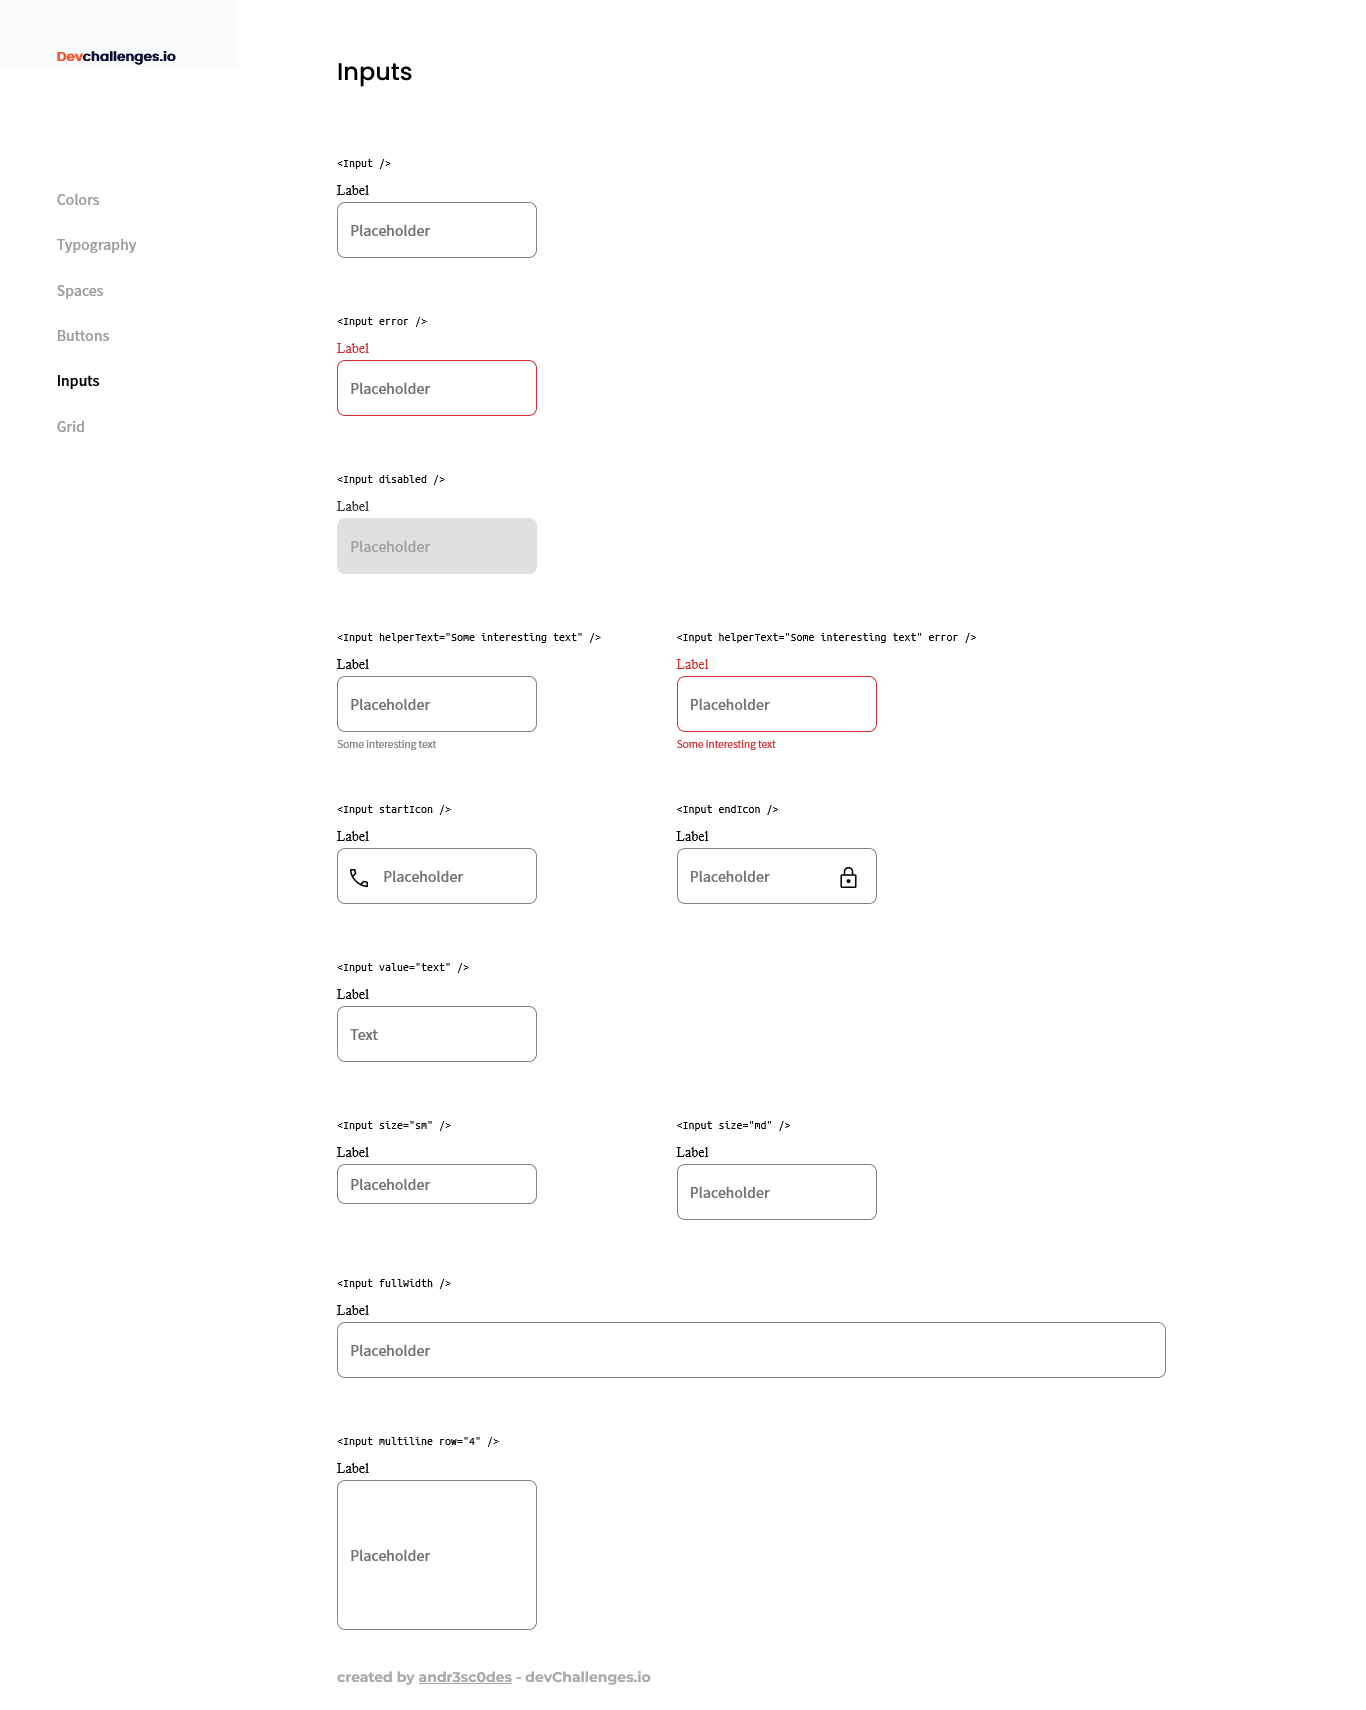
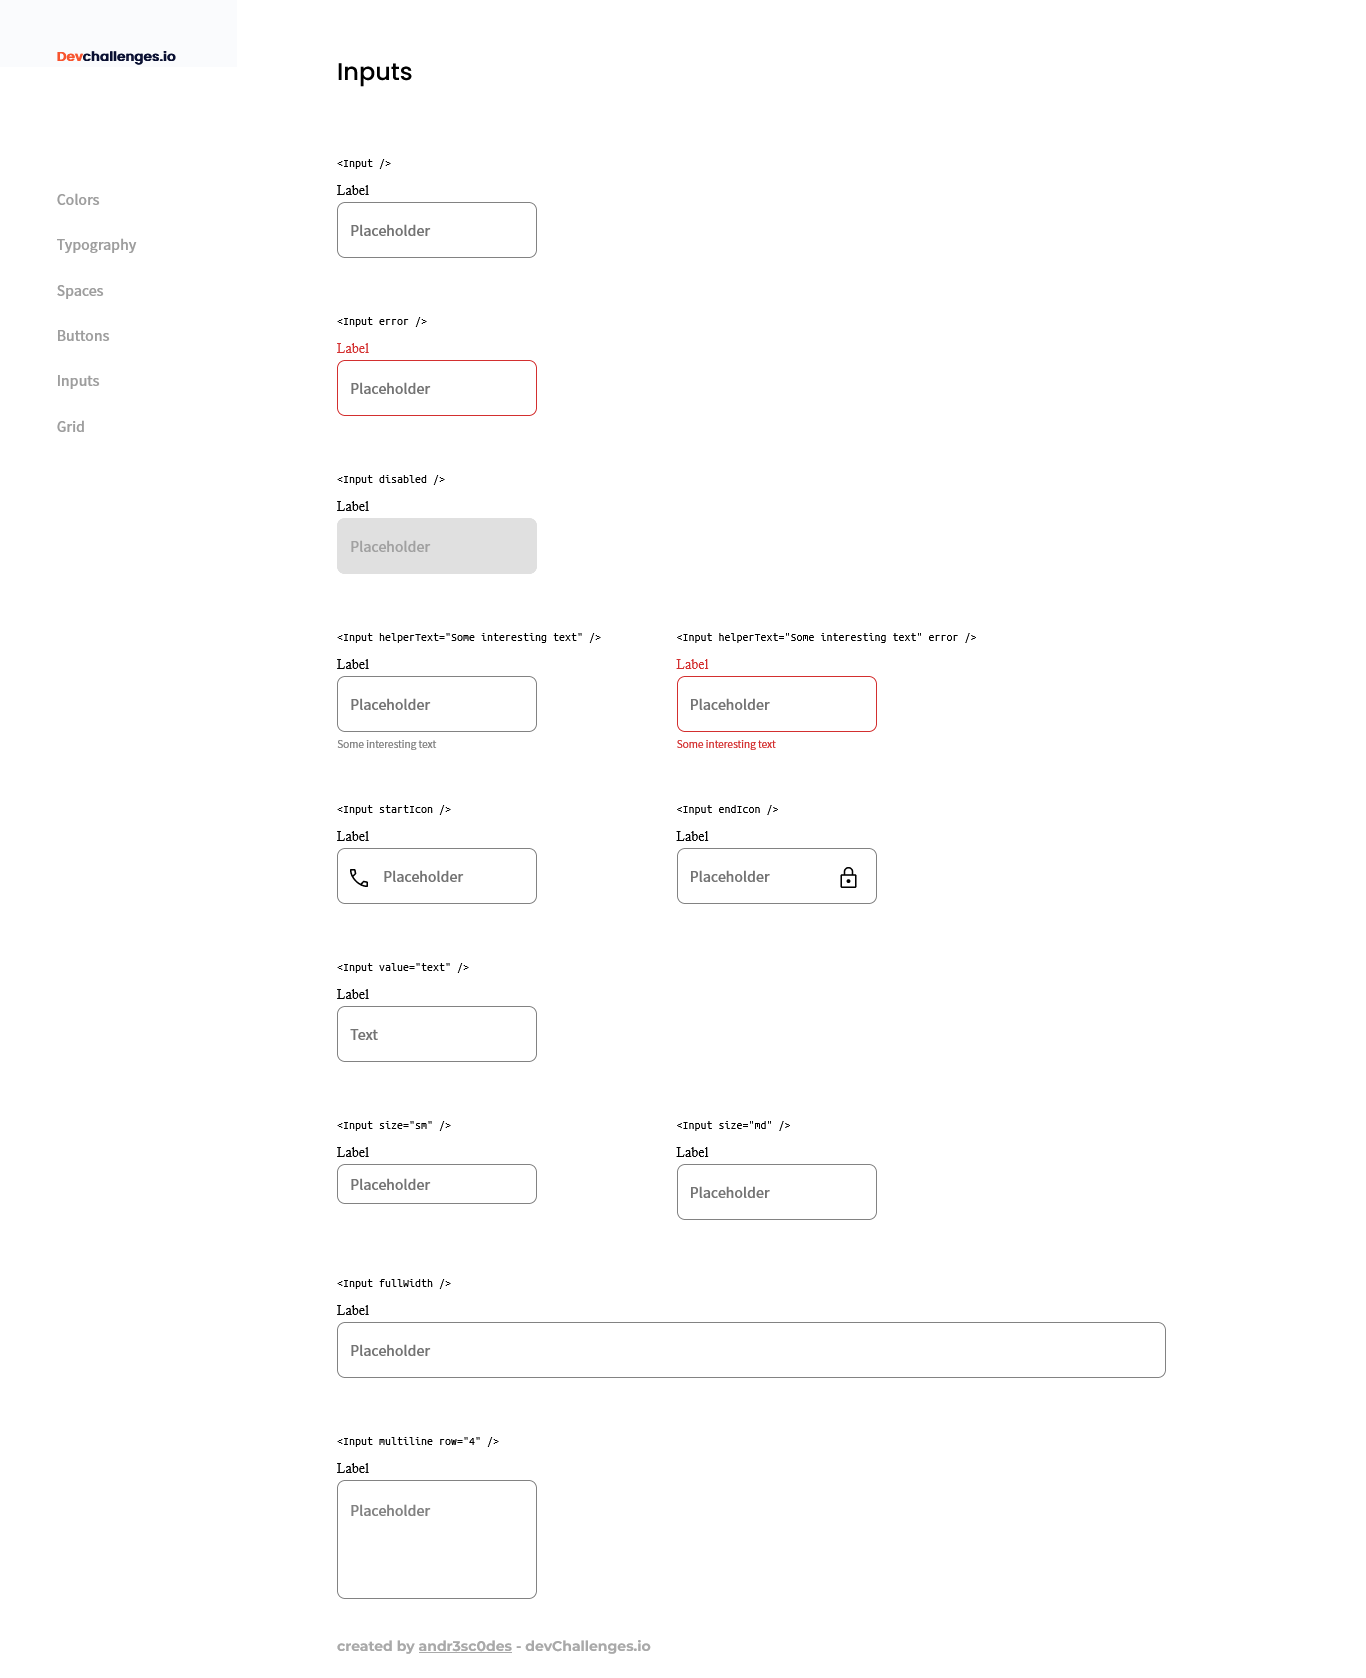
input as textarea fix

diff --git a/components/Input.jsx b/components/Input.jsx
@@ -30,16 +30,12 @@ const Input = ({ error, disabled, helperText, startIcon, endIcon, value, size, r
     if (fullWidth === true) {
       input.current.style.width = '100%'
     }
-    if (multiline === true) {
-      input.current.style.width = '200px'
-      input.current.style.height = `${row * 75}px`
-    }
   }, [])
 
   return (
     <>
       <label className={`${styles.label} ${styleLabel}`} htmlFor='input'><div> Label</div>
-        <input ref={input} id='input' className={styles.input} placeholder={value || 'Placeholder'} type='text' />
+        {multiline === true ? <textarea className={styles.textarea} rows={row} defaultValue='Placeholder' /> : <input ref={input} id='input' className={styles.input} placeholder={value || 'Placeholder'} type='text' />}
         {startIcon === true ? <div className={styles.label__iconstart}><span class='material-symbols-outlined'>call</span></div> : ''}
         {endIcon === true ? <div className={styles.label__iconend}><span class='material-symbols-outlined'>lock</span></div> : ''}
         <div className={styles.label__text}>{helperText !== '' ? helperText : ''}</div>

diff --git a/components/Input.module.sass b/components/Input.module.sass
@@ -11,6 +11,20 @@
     margin-top: 4px
     outline: none
 
+.textarea
+    resize: none
+    width: 200px
+    border: 1px solid #828282
+    border-radius: 8px
+    margin-top: 4px
+    padding-left: 12px
+    padding-top: 18px
+    font-size: 14px
+    font-family: 'Noto Sans JP'
+    font-weight: 500
+    line-height: 20.27px
+    color: #828282
+
 .label
     position: relative
     width: fit-content

diff --git a/pages/Inputs.js b/pages/Inputs.js
@@ -101,7 +101,7 @@ const Inputs = () => {
           <article className={styles.input}>
             <span className={styles.input__title}>{'<Input multiline row="4" />'}</span>
             <div className={styles.input__component}>
-              <Input multiline row='2' />
+              <Input multiline row='4' />
             </div>
           </article>
 
